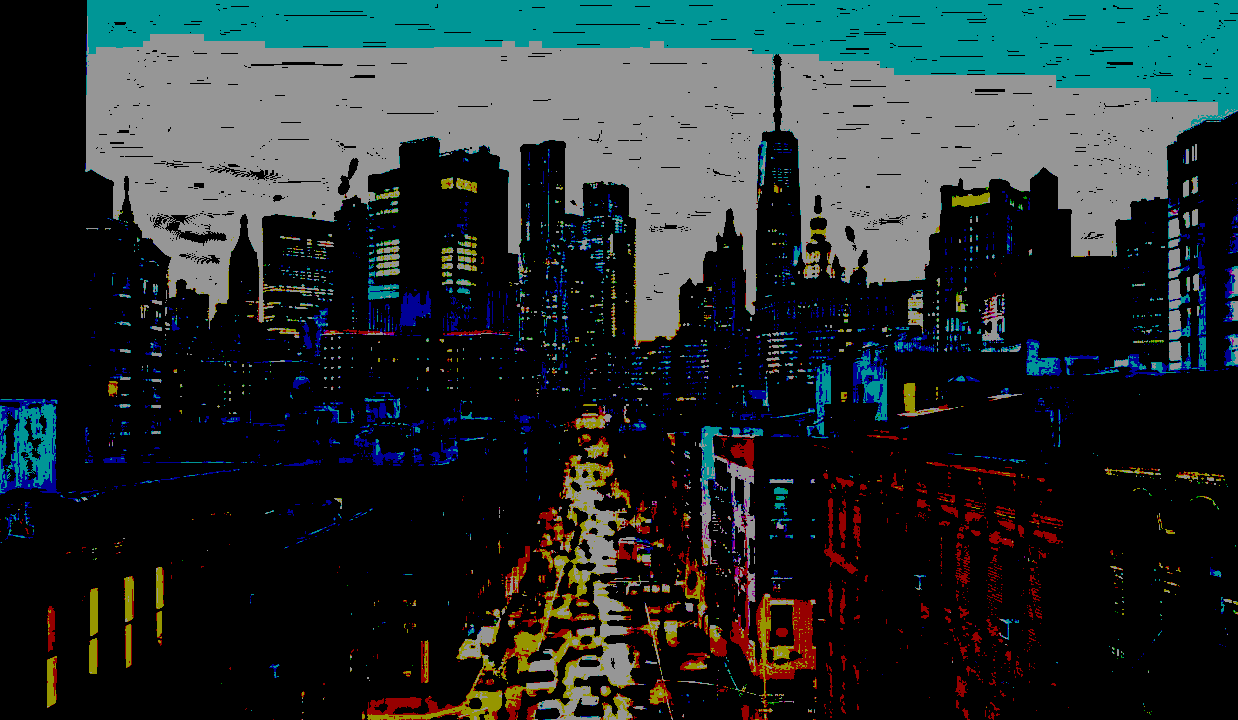
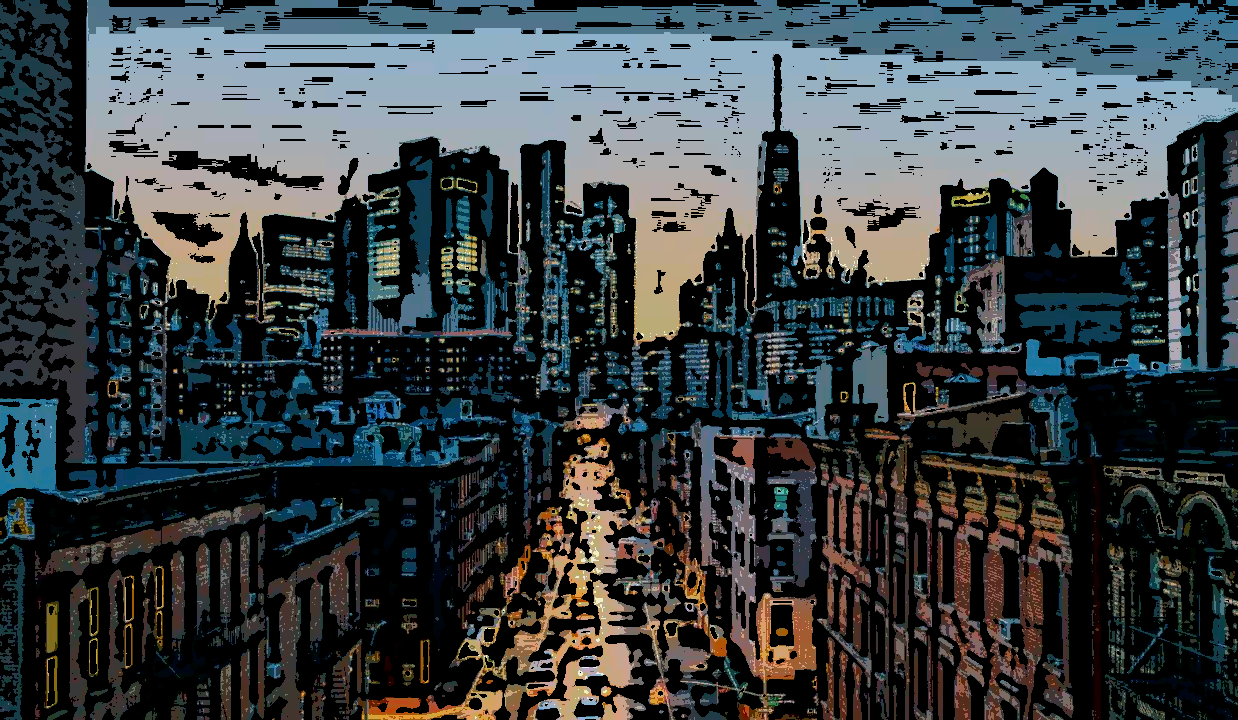
updated

diff --git a/main.py b/main.py
@@ -42,7 +42,7 @@ def edge_detection(image, k, sigma, epsilon):
 
     return thresholded_image
 
-
+""" PART 3 """
 def image_quantization(image, conversion, value):
     image_rgb = image.convert('RGB') #since original image is RGBA
     converted_image = image_rgb.convert(conversion)
@@ -63,9 +63,6 @@ def image_quantization(image, conversion, value):
         image_rgb_array[:, :, 1] = quantized_g
         image_rgb_array[:, :, 2] = quantized_b
 
-        # quantized_r = r.point(lambda i: i // value * value)
-        # quantized_g = g.point(lambda i: i // value * value)
-        # quantized_b = b.point(lambda i: i // value * value)
         quantized = Image.fromarray(image_rgb_array)
         return quantized  # Return the quantized image here for 'RGB' conversion
 
@@ -73,7 +70,7 @@ def image_quantization(image, conversion, value):
     quantized_image_rgb = quantized_image.convert('RGB')
     return quantized_image_rgb
 
-
+""" PART 4 """
 def combine_edges_quantized(edges, quantized):
     inverted_edges = 1 - edges
     #inverted_edge = Image.fromarray(np.uint8(inverted_edges))
@@ -95,11 +92,11 @@ output_folder = 'report/result/'
 
 filter_type = 'gaussian' # gaussian, median, uniform
 filter_parameter_value = 2 # sigma or kernel_size value
-k = 2
+k = 4
 sigma_value_for_edge_detection = 2
 epsilon = 50
 conversion_type = 'LAB' # it can be LAB, HSV, RGB
-quantization_value = 1
+quantization_value = 60
 
 """ ----------------------------------------------------"""
 
@@ -129,55 +126,29 @@ for i in range(1, 7):
 
     plt.subplots_adjust(wspace=0.03, hspace=0)
 
-    plt.subplot(1, 3, 1)
+    plt.subplot(1, 5, 1)
     plt.imshow(image)
     plt.title('Original Image')
     plt.axis('off')
 
-    # plt.subplot(1, 4, 2)
-    # plt.imshow(smooth_image)
-    # plt.title('Smoothed Image')
-    # plt.axis('off')
+    plt.subplot(1, 5, 2)
+    plt.imshow(smooth_image)
+    plt.title('Smoothed Image')
+    plt.axis('off')
 
-    plt.subplot(1, 3, 2)
+    plt.subplot(1, 5, 3)
+    plt.imshow(edge_detected_image, cmap='gray')
+    plt.title('Edged Image')
+    plt.axis('off')
+
+    plt.subplot(1, 5, 4)
     plt.imshow(quantized_image, cmap='gray')
     plt.title('Quantized Image')
     plt.axis('off')
 
-    plt.subplot(1, 3, 3)
+    plt.subplot(1, 5, 5)
     plt.imshow(final_image, cmap='gray')
     plt.title('Cartoon Image')
     plt.axis('off')
 
     plt.show()
-
-
-    # plt.subplot(2, 3, 1)
-    # plt.imshow(image)
-    # plt.title('Original Image')
-    # plt.axis('off')
-    #
-    # plt.subplot(2, 3, 2)
-    # plt.imshow(smooth_image)
-    # plt.title('Smoothed Image')
-    # plt.axis('off')
-    #
-    # plt.subplot(2, 3, 3)
-    # plt.imshow(edge_detected_image, cmap='gray')
-    # plt.title('Edge Image')
-    # plt.axis('off')
-    #
-    # plt.subplot(2, 3, 4)
-    # plt.imshow(quantized_image)
-    # plt.title('Quantized Image')
-    # plt.axis('off')
-    #
-    # plt.subplot(2, 3, 5)
-    # plt.imshow(final_image)
-    # plt.title('Cartoon Image')
-    # plt.axis('off')
-
-    #plt.tight_layout()
-    #plt.show()
-
-
